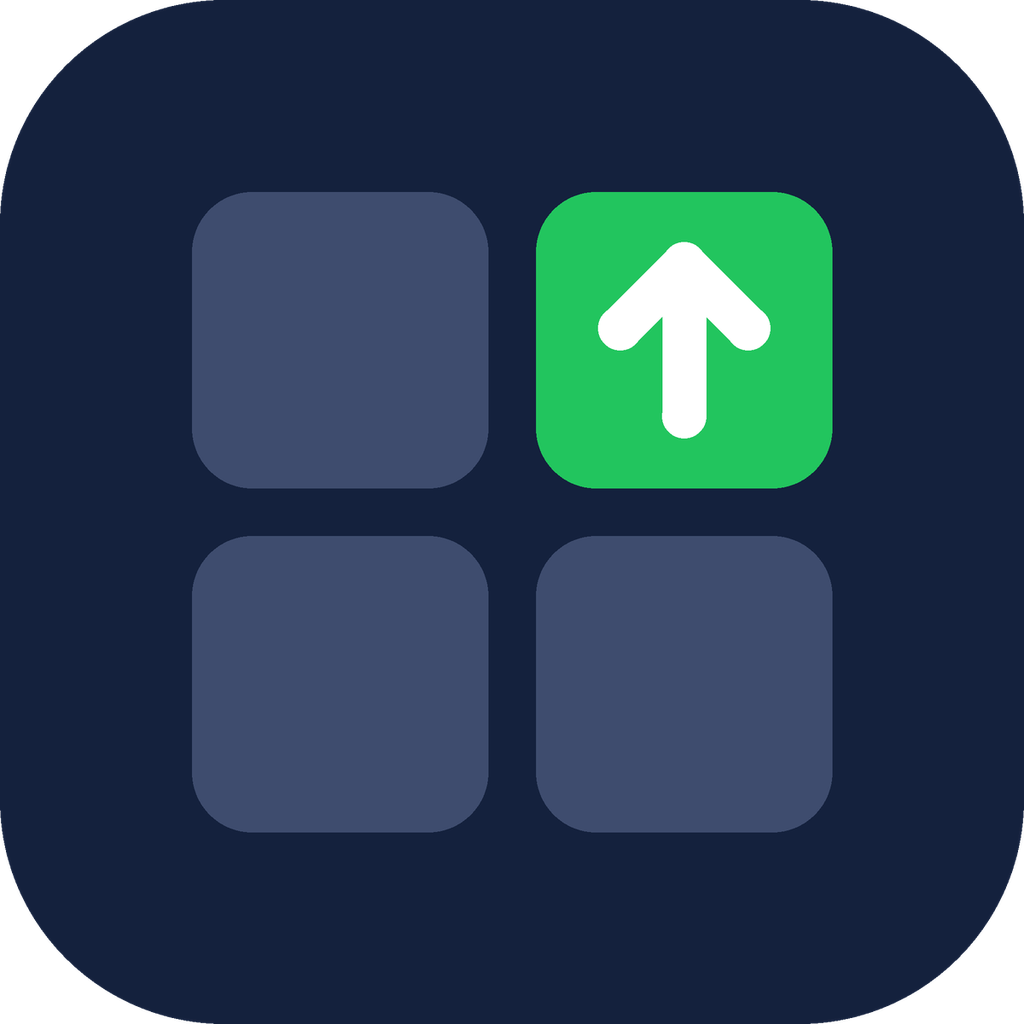
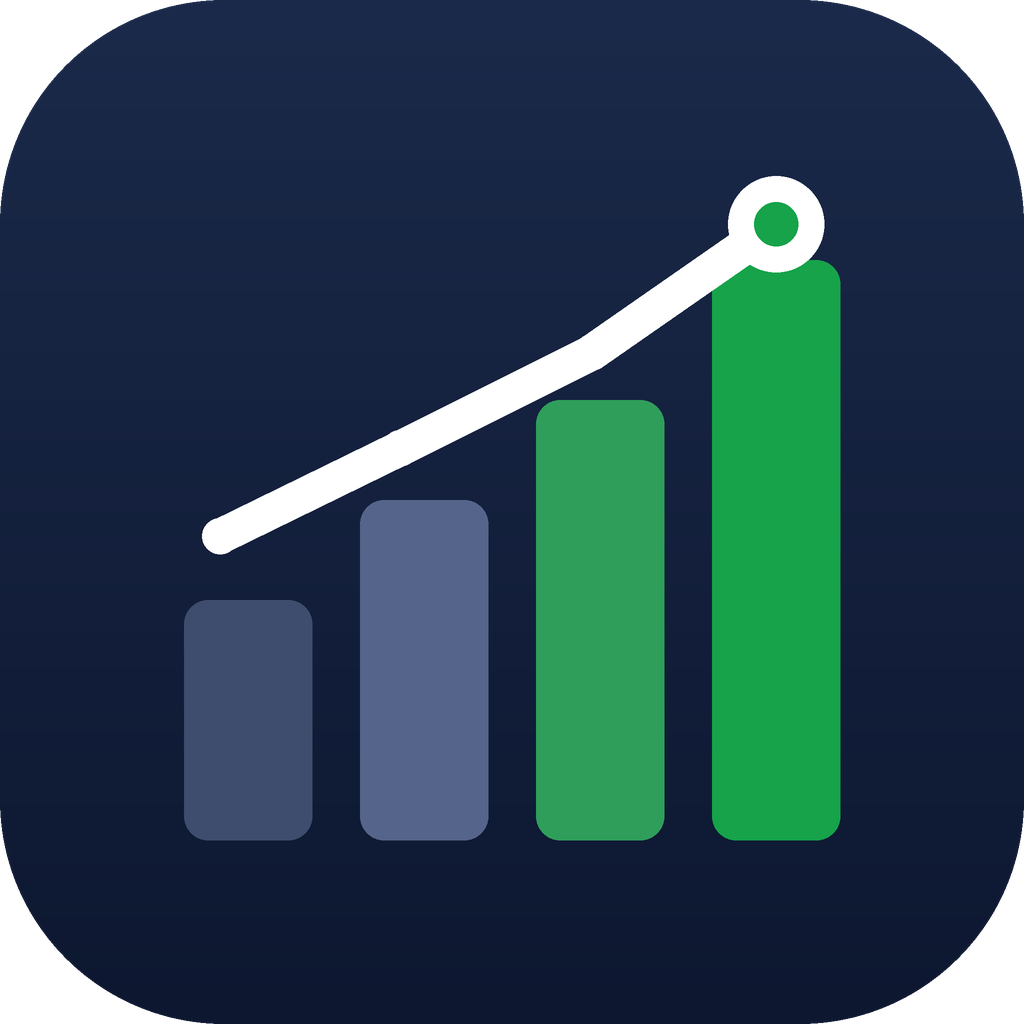
로고를 "그래프 있는" C안(상승 막대 4개 + 흰 추세선 + 분석 포인트)으로 교체 — 사용자 정정(2026-09-08), 캐시버스터 v=20260908b

diff --git a/index.html b/index.html
@@ -18,9 +18,9 @@
 <meta property="og:image:height" content="1024" />
 <meta property="og:locale" content="ko_KR" />
 
-<link rel="icon" type="image/png" sizes="512x512" href="logos/marketmap-512.png?v=20260908" />
-<link rel="icon" type="image/png" sizes="180x180" href="logos/marketmap-180.png?v=20260908" />
-<link rel="apple-touch-icon" href="logos/marketmap-180.png?v=20260908" />
+<link rel="icon" type="image/png" sizes="512x512" href="logos/marketmap-512.png?v=20260908b" />
+<link rel="icon" type="image/png" sizes="180x180" href="logos/marketmap-180.png?v=20260908b" />
+<link rel="apple-touch-icon" href="logos/marketmap-180.png?v=20260908b" />
 <link rel="manifest" href="manifest.json" />
 <meta name="theme-color" content="#2563eb" />
 <meta name="apple-mobile-web-app-capable" content="yes" />
@@ -47,14 +47,14 @@
 </head>
 <body>
   <div id="loadingSplash" class="loading-splash">
-    <img src="logos/marketmap-logo.png?v=20260908" alt="마켓맵" class="loading-splash-logo" />
+    <img src="logos/marketmap-logo.png?v=20260908b" alt="마켓맵" class="loading-splash-logo" />
     <p class="loading-splash-caption">DART·미국 SEC 공시 기반 · 850개 기업 점수는 매일 갱신됩니다.</p>
   </div>
 
   <header id="fixedHeader" class="fixed-header">
     <div class="fh-topline">
       <!-- 헤더는 남색 배경이라 흰 링을 두른 전용 마크(2026-09-08 로고 교체) -->
-      <img src="logos/marketmap-header.png?v=20260908" alt="마켓맵" class="fh-banner" />
+      <img src="logos/marketmap-header.png?v=20260908b" alt="마켓맵" class="fh-banner" />
       <!-- 로고 옆 현재 시장 표시(2026-08-31): 국내 모드면 "국내", 해외 모드면 "해외" — syncMarketModeUI가 갱신 -->
       <span id="fhMarketLabel" class="fh-market-label">해외</span>
       <!-- 시장 표시 옆 네모 국기(2026-09-01 사용자 요청): 국내=태극기, 해외=성조기 — syncMarketModeUI가 채움 -->
@@ -775,7 +775,7 @@
       <button id="aboutModalCloseBtn" class="chart-modal-close" type="button" aria-label="닫기">✕</button>
     </div>
     <div class="info-modal-body about-body">
-      <img src="logos/marketmap-192.png?v=20260908" class="about-logo" alt="마켓맵" />
+      <img src="logos/marketmap-192.png?v=20260908b" class="about-logo" alt="마켓맵" />
       <h3 class="about-name">마켓맵</h3>
       <p class="about-slogan">10년 승률로 보는 투자 지도</p>
       <div class="about-rows">
@@ -802,7 +802,7 @@
   <!-- 구글 로그인 접근 게이트(2026-09-04 사용자 요청): 로그인 + 관리자 승인 전까지 전체 화면을 덮음 -->
   <div id="authGate" class="auth-gate" style="display:none;">
     <div class="auth-gate-card">
-      <img src="logos/marketmap-192.png?v=20260908" class="auth-gate-logo" alt="마켓맵" />
+      <img src="logos/marketmap-192.png?v=20260908b" class="auth-gate-logo" alt="마켓맵" />
       <h2 class="auth-gate-title">마켓맵</h2>
       <p class="auth-gate-desc" id="authGateDesc">이 서비스는 구글 로그인 후<br>관리자 승인을 받은 계정만 이용할 수 있습니다.</p>
       <div id="googleSignInBtn" class="auth-gate-google"></div>

diff --git a/sector-map/index.html b/sector-map/index.html
@@ -12,9 +12,9 @@
 </script>
 <meta name="viewport" content="width=device-width, initial-scale=1, maximum-scale=1, user-scalable=no, viewport-fit=cover" />
 <title>마켓맵 · 섹터맵 - 10년 승률로 보는 투자 지도</title>
-<link rel="icon" type="image/png" sizes="512x512" href="../logos/marketmap-512.png?v=20260908" />
-<link rel="icon" type="image/png" sizes="180x180" href="../logos/marketmap-180.png?v=20260908" />
-<link rel="apple-touch-icon" href="../logos/marketmap-180.png?v=20260908" />
+<link rel="icon" type="image/png" sizes="512x512" href="../logos/marketmap-512.png?v=20260908b" />
+<link rel="icon" type="image/png" sizes="180x180" href="../logos/marketmap-180.png?v=20260908b" />
+<link rel="apple-touch-icon" href="../logos/marketmap-180.png?v=20260908b" />
 <link rel="manifest" href="../manifest.json" />
 <meta name="theme-color" content="#1b2a4a" />
 <meta name="apple-mobile-web-app-capable" content="yes" />
@@ -28,7 +28,7 @@
 </head>
 <body>
 <div id="mapLoadingSplash" class="loading-splash">
-  <img src="../logos/marketmap-logo.png?v=20260908" alt="마켓맵" class="loading-splash-logo" />
+  <img src="../logos/marketmap-logo.png?v=20260908b" alt="마켓맵" class="loading-splash-logo" />
   <p class="loading-splash-caption">DART·미국 SEC 공시 기반 · 850개 기업 점수는 매일 갱신됩니다.</p>
 </div>
 
@@ -36,7 +36,7 @@
 
   <header class="top-bar">
     <div class="top-bar-row">
-      <img src="../logos/marketmap-header.png?v=20260908" alt="마켓맵" class="map-brand-logo" />
+      <img src="../logos/marketmap-header.png?v=20260908b" alt="마켓맵" class="map-brand-logo" />
       <!-- 국내/해외 토글 대신 지도 보기 선택 드롭다운(2026-08-31): 코스피 200/코스닥 150/S&P200/S&P500 -->
       <div class="map-view-select" id="mapViewSelect">
         <button type="button" class="map-view-btn" id="mapViewBtn" aria-haspopup="true">
